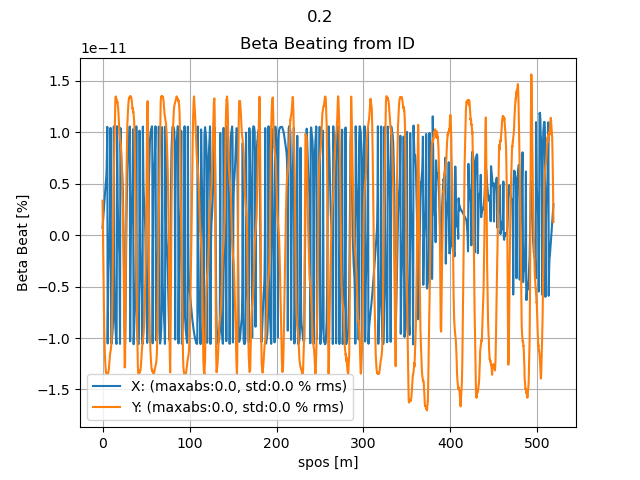
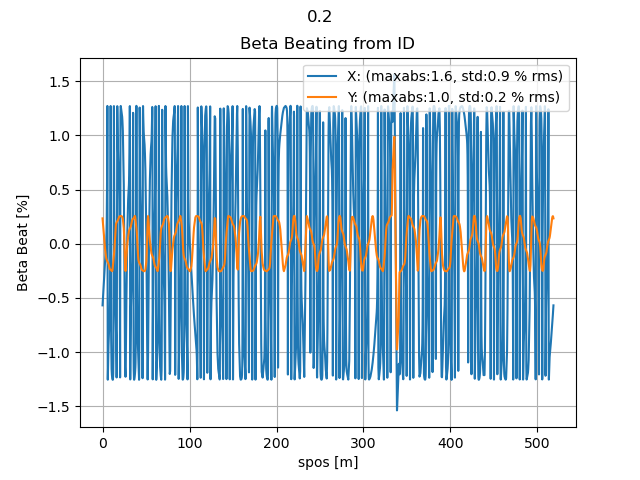
fix calc beta beating

diff --git a/scripts/wiggler/sofb_orbcorr.py b/scripts/wiggler/sofb_orbcorr.py
@@ -87,6 +87,7 @@ def sofb_correct(id_hkick, id_hdisp, id_vkick, id_vdisp, ramp_nrpts, minsingval)
         model0, model1, twiss1.spos,
         id_hkick, id_hdisp, id_vkick, id_vdisp, ramp_nrpts, minsingval)
     codrx, codpx, codry, codpy = utils.get_orb4d(model1)
+    twiss1, *_ = pyaccel.optics.calc_twiss(model1, indices='closed')
 
     return kicks, codrx, codpx, codry, codpy, twiss1.spos, twiss0, twiss1
 
@@ -101,7 +102,7 @@ def run(minsingval):
     kicks, codrx, codpx, codry, codpy, spos, twiss0, twiss1 = sofb_correct(
         id_hkick, id_hdisp, id_vkick, id_vdisp, ramp_nrpts, minsingval)
 
-    bbeatx, bbeaty = calc_betabeat(twiss0,twiss1)
+    bbeatx, bbeaty = calc_betabeat(twiss0, twiss1)
     plot_results(kicks, codrx, codpx, codry, codpy, spos, bbeatx, bbeaty, minsingval)
 
 def plot_results(kicks, codrx, codpx, codry, codpy, spos, bbeatx, bbeaty, minsingval):
